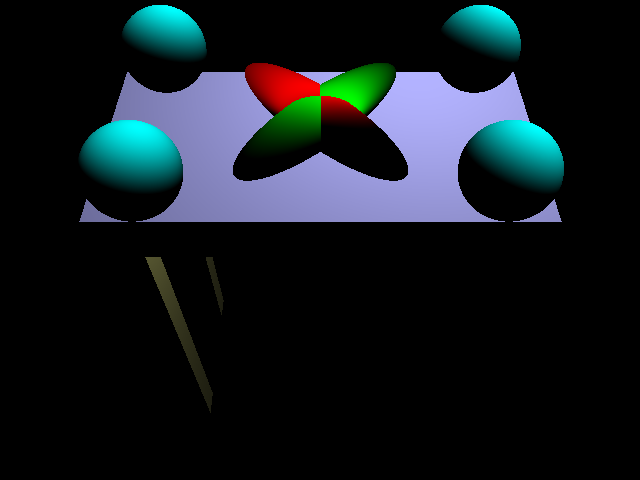
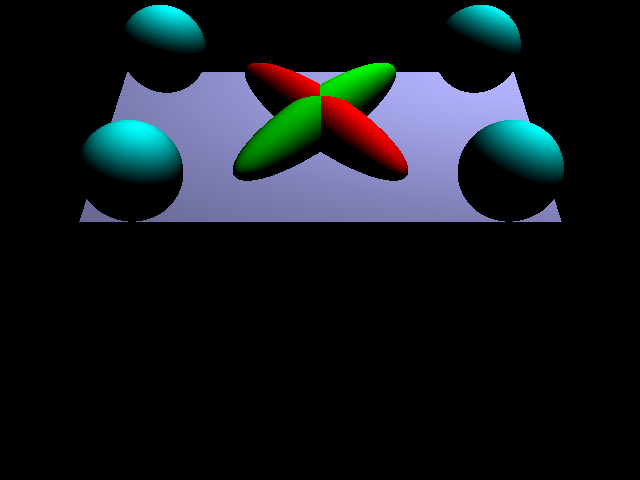
fixed

diff --git a/hw4/main.cpp b/hw4/main.cpp
@@ -225,7 +225,7 @@ vec3 ComputeColor(hit_record closest)
         // cout << "notnull" << endl;
         // return vec3(1.0, 0.0, 0.0);
         vec3 normal;
-        vec3 intP = vec3(closest.target->_transform * vec4(closest.point, 0.0f));
+        vec3 intP = vec3(closest.target->_transform * vec4(closest.point, 1.0f));
         // closest.p.dir = vec3(output.target->_transform * vec4(ray.dir, 0.0f));
         // closest.p.ori = vec3(output.target->_transform * vec4(ray.ori, 1.0f));
         if (closest.target->_type == tri)
@@ -259,7 +259,7 @@ vec3 ComputeColor(hit_record closest)
             else
             { // point???
                 position = vec3(lightposn[4 * i], lightposn[4 * i + 1], lightposn[4 * i + 2]) / lightposn[4 * i + 3];
-                direction = normalize(position - closest.point);
+                direction = normalize(position - intP);
                 myhalf = normalize(direction + eyedirn);
                 // color = color / powf(distance(intP, position),2);
             }
